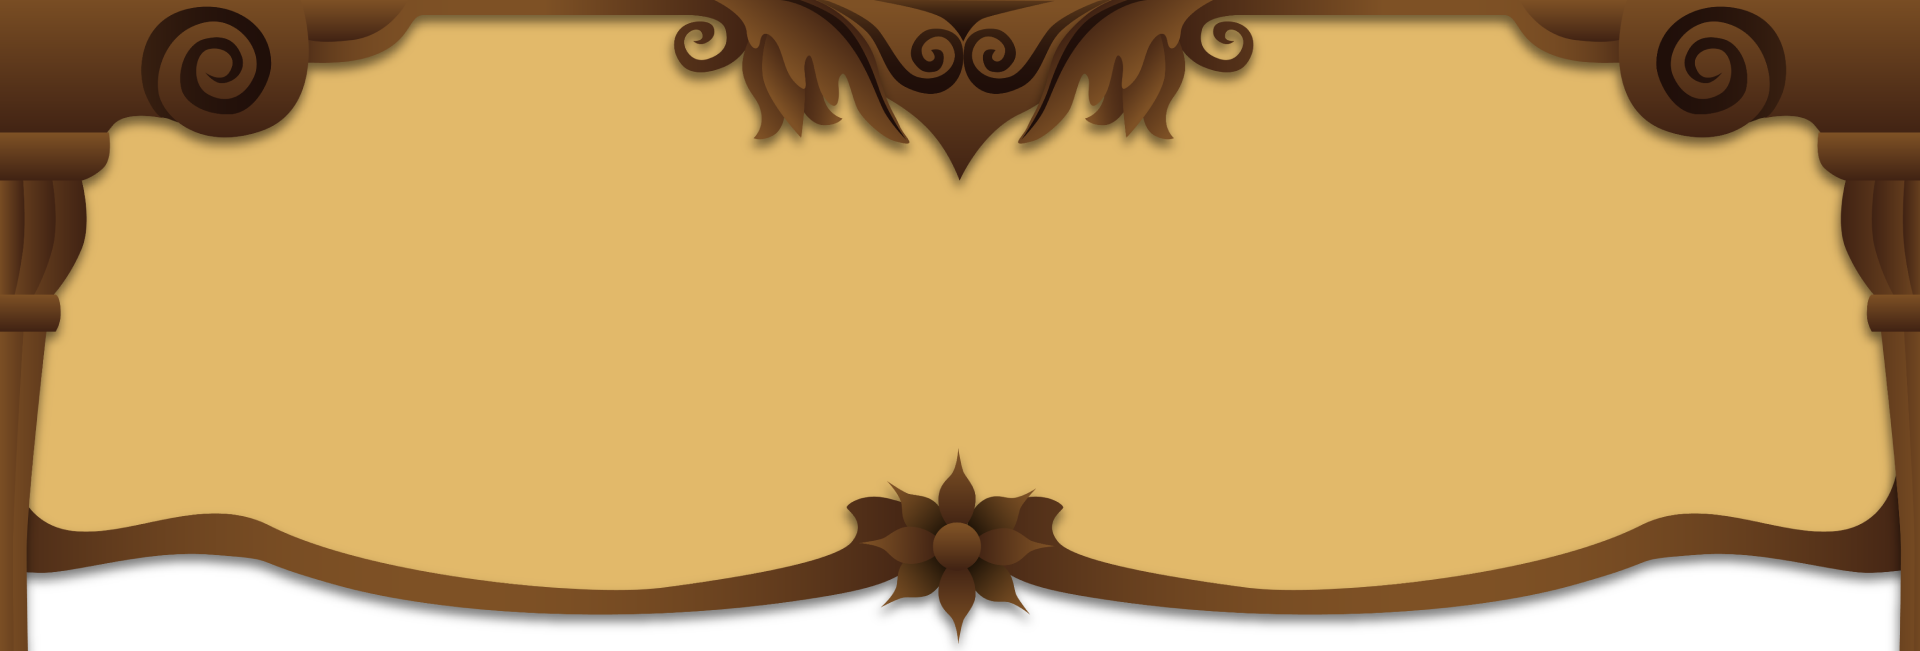
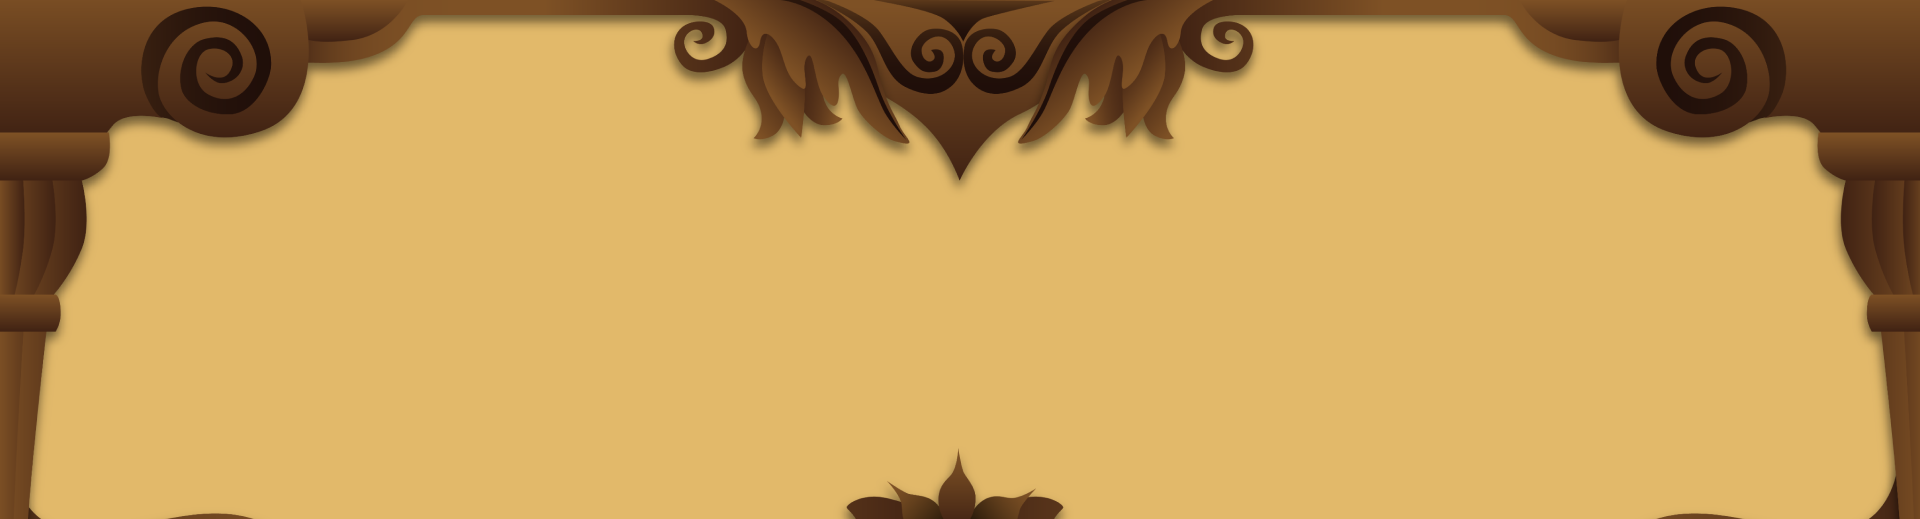
checkpoint,karena mau revamp style

Changed region(s): [[0.0, 0.4008, 1.0, 1.0], [0.0, 0.0, 1.0, 0.3699], [0.4062, 0.0, 0.4375, 0.0308]]

diff --git a/src/pages/(main)/footer-test/index.tsx b/src/pages/(main)/footer-test/index.tsx
@@ -5,17 +5,17 @@ function Footer() {
   return (
     <footer>
       {/* top and bot wrapper */}
-      <Stack width={"100vw"} height={"100vh"} gap={0}>
+      <Stack minW={"100vw"} minH={"100vh"} gap={0}>
         {/* Background Wrapper untuk top section */}
         <Stack
-          bgImage={{
-            base: "/footer/footer-maxima-mobile-top.png",
-            lg: "/footer/footer-maxima-desktop-top.png",
-          }}
-          bgSize={"cover"}
-          bgPosition={{ base: "top", lg: "center" }}
-          bgRepeat={"no-repeat"}
-          height={{ base: "55%", lg: "62%" }}
+        // bgImage={{
+        //   base: "/footer/footer-maxima-mobile-top.png",
+        //   lg: "/footer/footer-maxima-desktop-top.png",
+        // }}
+        // bgSize={"cover"}
+        // bgPosition={{ base: "top", lg: "center" }}
+        // bgRepeat={"no-repeat"}
+        // height="50%"
         >
           {/* sponsors and media partners content */}
           <Flex
@@ -65,14 +65,14 @@ function Footer() {
 
         {/* Background Wrapper untuk bottom section */}
         <Stack
-          bgImage={{
-            base: "/footer/footer-maxima-mobile-bottom.png",
-            lg: "/footer/footer-maxima-desktop-bottom.png",
-          }}
-          bgSize={"cover"}
-          bgRepeat={"no-repeat"}
-          bgPosition={{ base: "top", lg: "center" }}
-          height={{ base: "45%", lg: "38%" }}
+        // bgImage={{
+        //   base: "/footer/footer-maxima-mobile-bot.png",
+        //   lg: "/footer/footer-maxima-desktop-bot.png",
+        // }}
+        // bgSize={"cover"}
+        // bgRepeat={"no-repeat"}
+        // bgPosition={{ base: "top", lg: "center" }}
+        // height="50%"
         >
           {/* maxima logo & contact*/}
           <Flex
@@ -106,7 +106,7 @@ function Footer() {
                 gap={8}
                 mb={{ base: 10, lg: 0 }}
               >
-                <Link href="#link-line" isExternal>
+                <Link href="https://line.me/ti/p/vuu4204x" isExternal>
                   <Image
                     src="/footer/logo-line.svg"
                     width={{ base: "30px", md: "40px", lg: "50px" }}
@@ -216,7 +216,7 @@ function Footer() {
                 </Link>
               </Stack>
 
-              <Stack maxW="400px">
+              <Stack maxW="270px">
                 <Heading
                   textColor={"#44002B"}
                   size={{ base: "sm", lg: "md" }}
@@ -229,7 +229,6 @@ function Footer() {
                   fontFamily={"Lexend"}
                   size={{ base: "sm", lg: "md" }}
                   fontWeight={"regular"}
-                  minW="200px"
                 >
                   Universitas Multimedia Nusantara Jl. Scientia Boulevard,
                   Gading Serpong, Tangerang, Banten 15811
